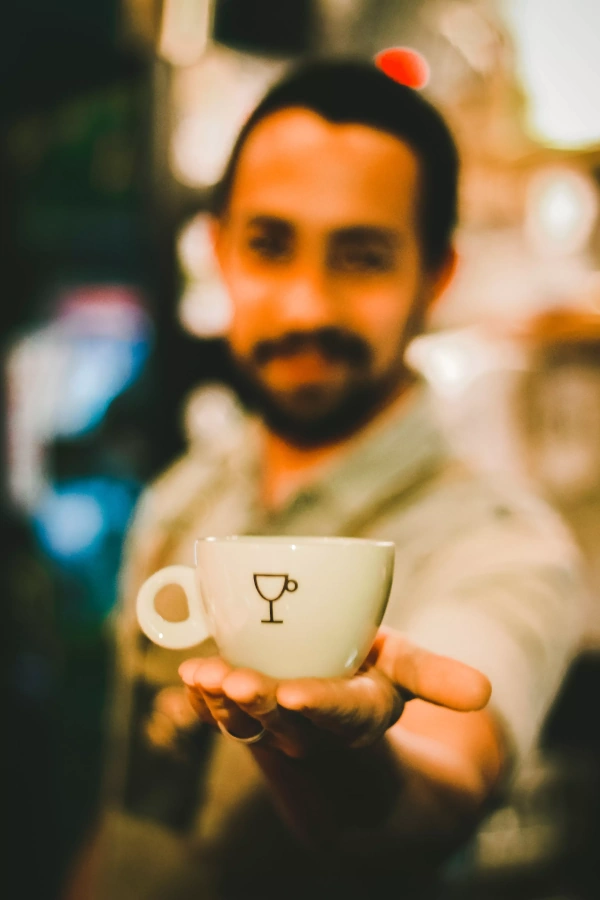
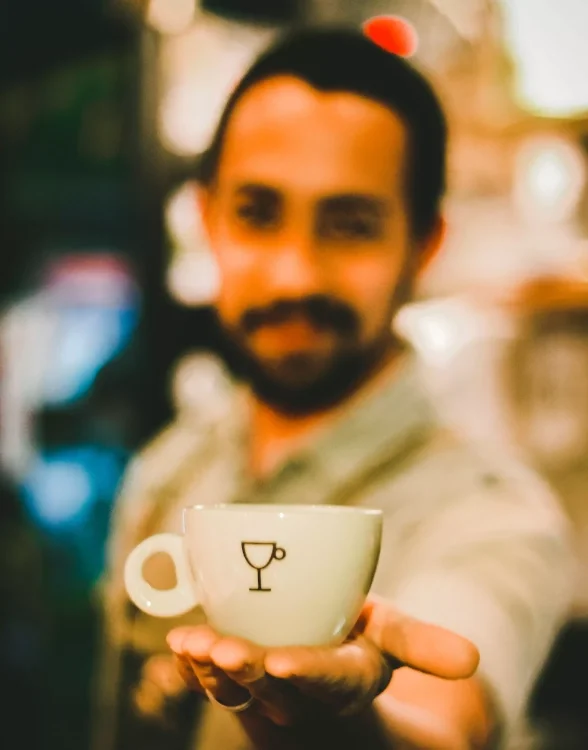
Home page text content changed. Images to be changed.

diff --git a/layouts/partials/footer.html b/layouts/partials/footer.html
@@ -31,9 +31,9 @@
           <!-- logo -->
           <a class="logo-footer" href="{{ site.BaseURL | relLangURL }}"><img class="img-fluid mb-4" src="{{ site.Params.logo | absURL }}" alt="{{ site.Title }}"></a>
           <ul class="list-unstyled">
-            <li class="mb-4">{{ site.Params.address | markdownify }}</li>
-            <li class="mb-4">{{ site.Params.email | markdownify }}</li>
-            <li class="mb-4">{{ site.Params.mobile | markdownify }}</li>
+            <li class="mb-4"><span class="text-white">{{ site.Params.address | markdownify }}</span></li>
+            <li class="mb-4"><span class="text-white">{{ site.Params.email | markdownify }}</span></li>
+            <li class="mb-4"><span class="text-white">{{ site.Params.mobile | markdownify }}</span></li>
           </ul>
         </div>
         <!-- company -->
@@ -42,7 +42,7 @@
           <ul class="list-unstyled">
             {{ range site.Menus.main }}
             {{ if not .HasChildren }}
-            <li class="mb-3"><a class="text-color" href="{{ .URL | absLangURL }}">{{ .Name }}</a></li>
+            <li class="mb-3"><a class="text-white" href="{{ .URL | absLangURL }}">{{ .Name }}</a></li>
             {{ end }}
             {{ end }}
           </ul>
@@ -82,7 +82,7 @@
     <div class="container">
       <div class="row">
         <div class="col-sm-7 text-sm-left text-center">
-          <p class="mb-0">{{ site.Params.copyright | markdownify }}</p>
+          <p class="mb-0"><span class="text-white">{{ site.Params.copyright | markdownify }}</span></p>
         </div>
         <div class="col-sm-5 text-sm-right text-center">
           <ul class="list-inline">

diff --git a/layouts/index.html b/layouts/index.html
@@ -87,6 +87,18 @@
       <div class="col-md-6 order-2 order-md-2">
         <h2 class="section-title">{{ .title2 | markdownify }}</h2>
        <p>{{ .content2 | markdownify }}</p>
+       <div class="content">
+         <ul>
+          <li>Subscription per physical address</li>
+          <li>Unlimited locations per subscription</li>
+          <li>Multiple menus per location</li>
+          <li>Unlimited tables or rooms</li>
+          <li>Unlimited admin users</li>
+          <li>Availability update option</li>
+          <li>Live updates on the menu</li>
+           
+          </ul>
+        </div>
         {{ if .button.enable }}
         {{ with .button }}
         <a href="{{ .link | absLangURL }}" class="btn btn-primary-outline">{{ .label }}</a>
@@ -101,8 +113,29 @@
     </div>
   </div>
 </section>
+<!-- Self added content from About page -->
+<section class="section-sm bg-primary">
+  <div class="container">
+    <div class="row">
+      <!-- funfacts item -->
+      <div class="col-12  text-center">
+        
+          <h2>
+            <span class=" section-title text-white text-center" >At an yearly subscription of </span>
+            <span>&#8377; 999 only!</span>
+          </h2>
+          <!--h5 class="text-white">h5 content</h5-->
+          <a href="/contact" class="btn btn-secondary">Contact Us</a>
+      </div>
+      
+    </div>
+  </div>
+</section>
 {{ end }}
 {{ end }}
+
+
+
 <!-- /about FastServe -->
 
 <!-- courses -->
